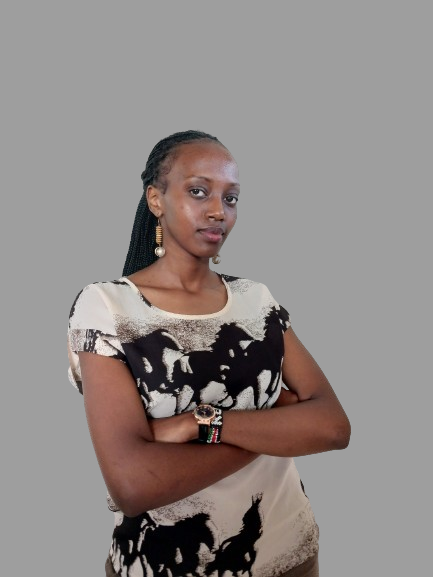
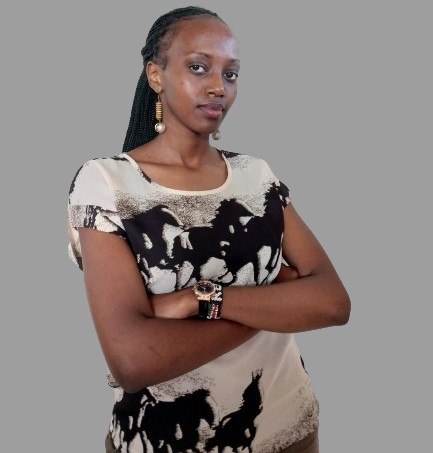
sprint 1

diff --git a/index.html b/index.html
@@ -12,13 +12,15 @@
         <div class="container">
             <nav>
                 <img src="Logo.png" class="logo">
-                <ul>
-                    <li><a href="#">Home</a></li>
-                    <li><a href="#">About</a></li>
-                    <li><a href="#">Services</a></li>
-                    <li><a href="#">Portfolio</a></li>
-                    <li><a href="#">Contact</a></li>
+                <ul id="sidemenu">
+                    <li><a href="#header">Home</a></li>
+                    <li><a href="#about">About</a></li>
+                    <li><a href="#services">Services</a></li>
+                    <li><a href="#portfolio">Portfolio</a></li>
+                    <li><a href="#contact">Contact</a></li>
+                    <i class="fa-sharp fa-solid fa-xmark" onclick="closemenu()"></i>
                 </ul>
+                <i class="fa-solid fa-bars" onclick="openmenu()"></i>
             </nav>
             <div class="header-text">
                 <p>Software Developer</p>
@@ -32,12 +34,19 @@
         <div class="container">
             <div class="row">
                 <div class="about-col-1">
-                    <img src="" >
+                    <img src="mojatena.png">
                 </div>
                 <div class="about-col-2">
                     <h1 class="sub-title">About Me</h1>
-                    <p>
-                        Lorem ipsum dolor sit amet, consectetur adipiscing elit, sed do eiusmod tempor incididunt ut labore et dolore magna aliqua. Ut enim ad minim veniam, quis nostrud exercitation ullamco laboris nisi ut aliquip ex ea commodo consequat. Duis aute irure dolor in reprehenderit in voluptate velit esse cillum dolore eu fugiat nulla pariatur. Excepteur sint occaecat cupidatat non proident, sunt in culpa qui officia deserunt mollit anim id est laborum."</p>
+                    <p>My name is Esther Wangui Kuria.I am currently a fourth year student in strathmore university.
+                        I am persuing a Bachelors degree in Business and Information Technology.
+                        I enjoy creating websites and during my free time i develop software for fun.Part-time I am also an academic writer with my own writing service called Kush Writes.
+                        I like challenges and opportunities that enable me to make use of my mind.
+                        I like participating in hackathons and meeting new people.
+                        I am a good leader and i strive every day to make good development ideas and decisions.
+                        For hobbies,I enjoy swimming,taking walks,community service at my local children's home and writing.
+                        I am overall a people person and enjoy gatherings.
+                    </p>
                         <div class="tab-titles">
                             <p class="tab-links active-link" onclick="opentab('skills')">Skills</p>
                             <p class="tab-links" onclick="opentab('experience')">Experience</p>
@@ -61,7 +70,7 @@
                         </div>
                         <div class="tab-contents" id="education">
                             <ul>
-                                <li><span>2017-2021</span><br>Bachelors degree at Strathore University</li>
+                                <li><span>2017-2021</span><br>Bachelors degree at Strathmore University</li>
                                 <li><span>2017-2021</span><br>High school certification at Bishop Gatimu Ngandu Girls' </li>
                             </ul>
                         </div>
@@ -77,19 +86,19 @@
                 <div>
                     <i class="fa-solid fa-code"></i>
                     <h2>Web Design</h2>
-                    <p>Lorem ipsum dolor sit amet, consectetur adipiscing elit, sed do eiusmod tempor incididunt ut labore et dolore magna aliqua. </p>
+                    <p>Web design is the process of creating visually appealing and functional websites for optimal user experience and engagement. </p>
                     <a href="#">Learn more</a>
                 </div>
                 <div>
                     <i class="fa-solid fa-crop"></i>
                     <h2>UI/UX design</h2>
-                    <p>Lorem ipsum dolor sit amet, consectetur adipiscing elit, sed do eiusmod tempor incididunt ut labore et dolore magna aliqua.</p>
+                    <p>UI/UX design focuses on crafting intuitive interfaces for seamless user interactions, prioritizing user needs and enhancing overall experience.</p>
                     <a href="#">Learn more</a>
                 </div>
                 <div>
                     <i class="fa-solid fa-gamepad"></i>
                     <h2>Game Design</h2>
-                    <p>Lorem ipsum dolor sit amet, consectetur adipiscing elit, sed do eiusmod tempor incididunt ut labore et dolore magna aliqua. </p>
+                    <p>Game design is the art of creating interactive experiences, blending storytelling, mechanics, and aesthetics to engage and entertain players. </p>
                     <a href="#">Learn more</a>
                 </div>
             </div>
@@ -141,8 +150,8 @@
             <div class="row">
                 <div class="contact-left">
                     <h1 class="sub-title">Contact Me</h1>
-                    <p><i class="fa-sharp fa-solid fa-paper-plane"></i>Esther.Kuria@strathmore.edu</p>
-                    <p><i class="fa-sharp fa-solid fa-paper-plane"></i>Estherkuria581@gmail.com</p>
+                    <p><i class="fa-solid fa-envelope"></i></i>Esther.Kuria@strathmore.edu</p>
+                    <p><i class="fa-solid fa-envelope"></i></i>Estherkuria581@gmail.com</p>
                     <p><i class="fa-solid fa-phone-volume"></i>0707928978</p>
                     <div class="social-icons">
                         <a href="https://www.instagram.com"><i class="fa-brands fa-instagram"></i></a>
@@ -154,12 +163,13 @@
 
                 </div>
                 <div class="contact-right">
-                    <form>
-                        <input type="text" name="" placeholder="Your Name" required>
-                        <input type="email" name="email" placeholder="Your Email" required>
+                    <form name="submit-to-google-sheet">
+                        <input type="text" name="Name" placeholder="Your Name" required>
+                        <input type="email" name="Email" placeholder="Your Email" required>
                         <textarea name="Message" rows="6" placeholder="Your Message"></textarea>
                         <button type="submit" class="btn btn2">Submit</button>
                     </form>
+                    <span id="msg"></span>
                 </div>
             </div>
         </div>
@@ -183,5 +193,33 @@
             document.getElementById(tabname).classList.add("active-tab");
         }
     </script>
+    <script>
+        var sidemenu = document.getElementById("sidemenu");
+
+        function openmenu(){
+            sidemenu.style.right = "0"
+        }
+        function closemenu(){
+            sidemenu.style.right = "-200px"
+        }
+    </script>
+    <script>
+        const scriptURL = 'https://script.google.com/macros/s/AKfycbwhX1hBWUUik84U91CD0O4F992y08VCcLnqxldklD96HOub_lnmyGa8CWnYfDtEyK8x/exec'
+        const form = document.forms['submit-to-google-sheet']
+        const msg = document.getElementById("msg")
+      
+        form.addEventListener('submit', e => {
+          e.preventDefault()
+          fetch(scriptURL, { method: 'POST', body: new FormData(form)})
+            .then(response => {
+                msg.innerHTML = "Message sent succesfully!"
+                setTimeout(function(){
+                    msg.innerHTML = ""
+                }, 5000)
+                form.reset()
+            })
+            .catch(error => console.error('Error!', error.message))
+        })
+      </script>
 </body>
 </html>

diff --git a/style.css b/style.css
@@ -4,6 +4,9 @@
     font-family: 'poppins','sans-serif';
     box-sizing: border-box;
 }
+html{
+   scroll-behavior: smooth;
+}
  body{
     background: #080808;
     color: #fff;
@@ -26,7 +29,7 @@
    flex-wrap: wrap;
  }
  .logo{
-   width: 140px;
+   width: 160px;
  }
  nav ul li{
    display: inline-block;
@@ -76,13 +79,16 @@ nav ul li a:hover::after{
  }
  .about-col-1{
    flex-basis: 35%;
+   
+   
  }
  .about.col-1 img{
-   width: 100%;
+   width: 60%;
    border-radius: 15px;
  }
  .about-col-2{
-   flex-basis: 60%;
+   flex-basis: 55%;
+   
  }
  .sub-title{
    font-size: 60px;
@@ -182,12 +188,17 @@ nav ul li a:hover::after{
    overflow: hidden;
 }
 .work img{
+   display: flex; /* Use flexbox to align items horizontally */
+    justify-content: space-around; /* Distribute space evenly between items */
+    max-width: 30%; /* Adjust the width of each image to fit three images horizontally */
+    height: auto;
    width: 100%;
    border-radius: 10px;
    display: block;
    transition: transform 0.5s;
 }
 .layer{
+   max-width: 31.5%; 
    width: 100%;
    height: 0%;
    background: linear-gradient(rgba(0,0,0,0.6),#F6CF2A);
@@ -311,4 +322,74 @@ form .btn2{
    color: #FFD700;
 }
 /*---------css for small screen--------*/
-@media for the
+nav.fas{
+   display: none;
+}
+@media only screen and (max-width:600px){
+   #header{
+      background-image: url(tanotena.png)
+   }
+   .header-text{
+      margin-top: 100%;
+      font-size: 15px;
+
+   }
+   .header-text h1{
+      font-size: 30px;
+   }
+   nav.fas{
+      display: block;
+      font-size: 25px;
+   }
+   nav ul{
+      background: #FFD700;
+      position: fixed;
+      top: 0;
+      right: -200px;
+      width: 200px;
+      height: 100vh;
+      padding-top: 50px;
+      z-index: 2;
+      transition: right 0.5s;
+
+   }
+   nav ul li{
+      display: block;
+      margin: 25px;
+   }
+   nav ul .fa {
+      position: absolute;
+      top: 25px;
+      left: 25px;
+      cursor: pointer;
+   }
+   .sub-title{
+      font-size: 40px;
+   }
+   .about-col-1 .about-col-2{
+      flex-basis: 100%;
+   }
+   .about-col-1{
+      margin-bottom: 30px;
+   }
+   .about-col-2{
+      font-size: 14px;
+   }
+   .tab-links{
+      font-size: 16px;
+      margin-right: 20px;
+   }
+   .contact-left , .contact-right{
+      flex-basis: 100%;
+
+   }
+   .copyright{
+      font-size: 14px;
+   }
+}
+#msg{
+   color: #61b752;
+   margin-top: -40px;
+   display: block;
+}
+
